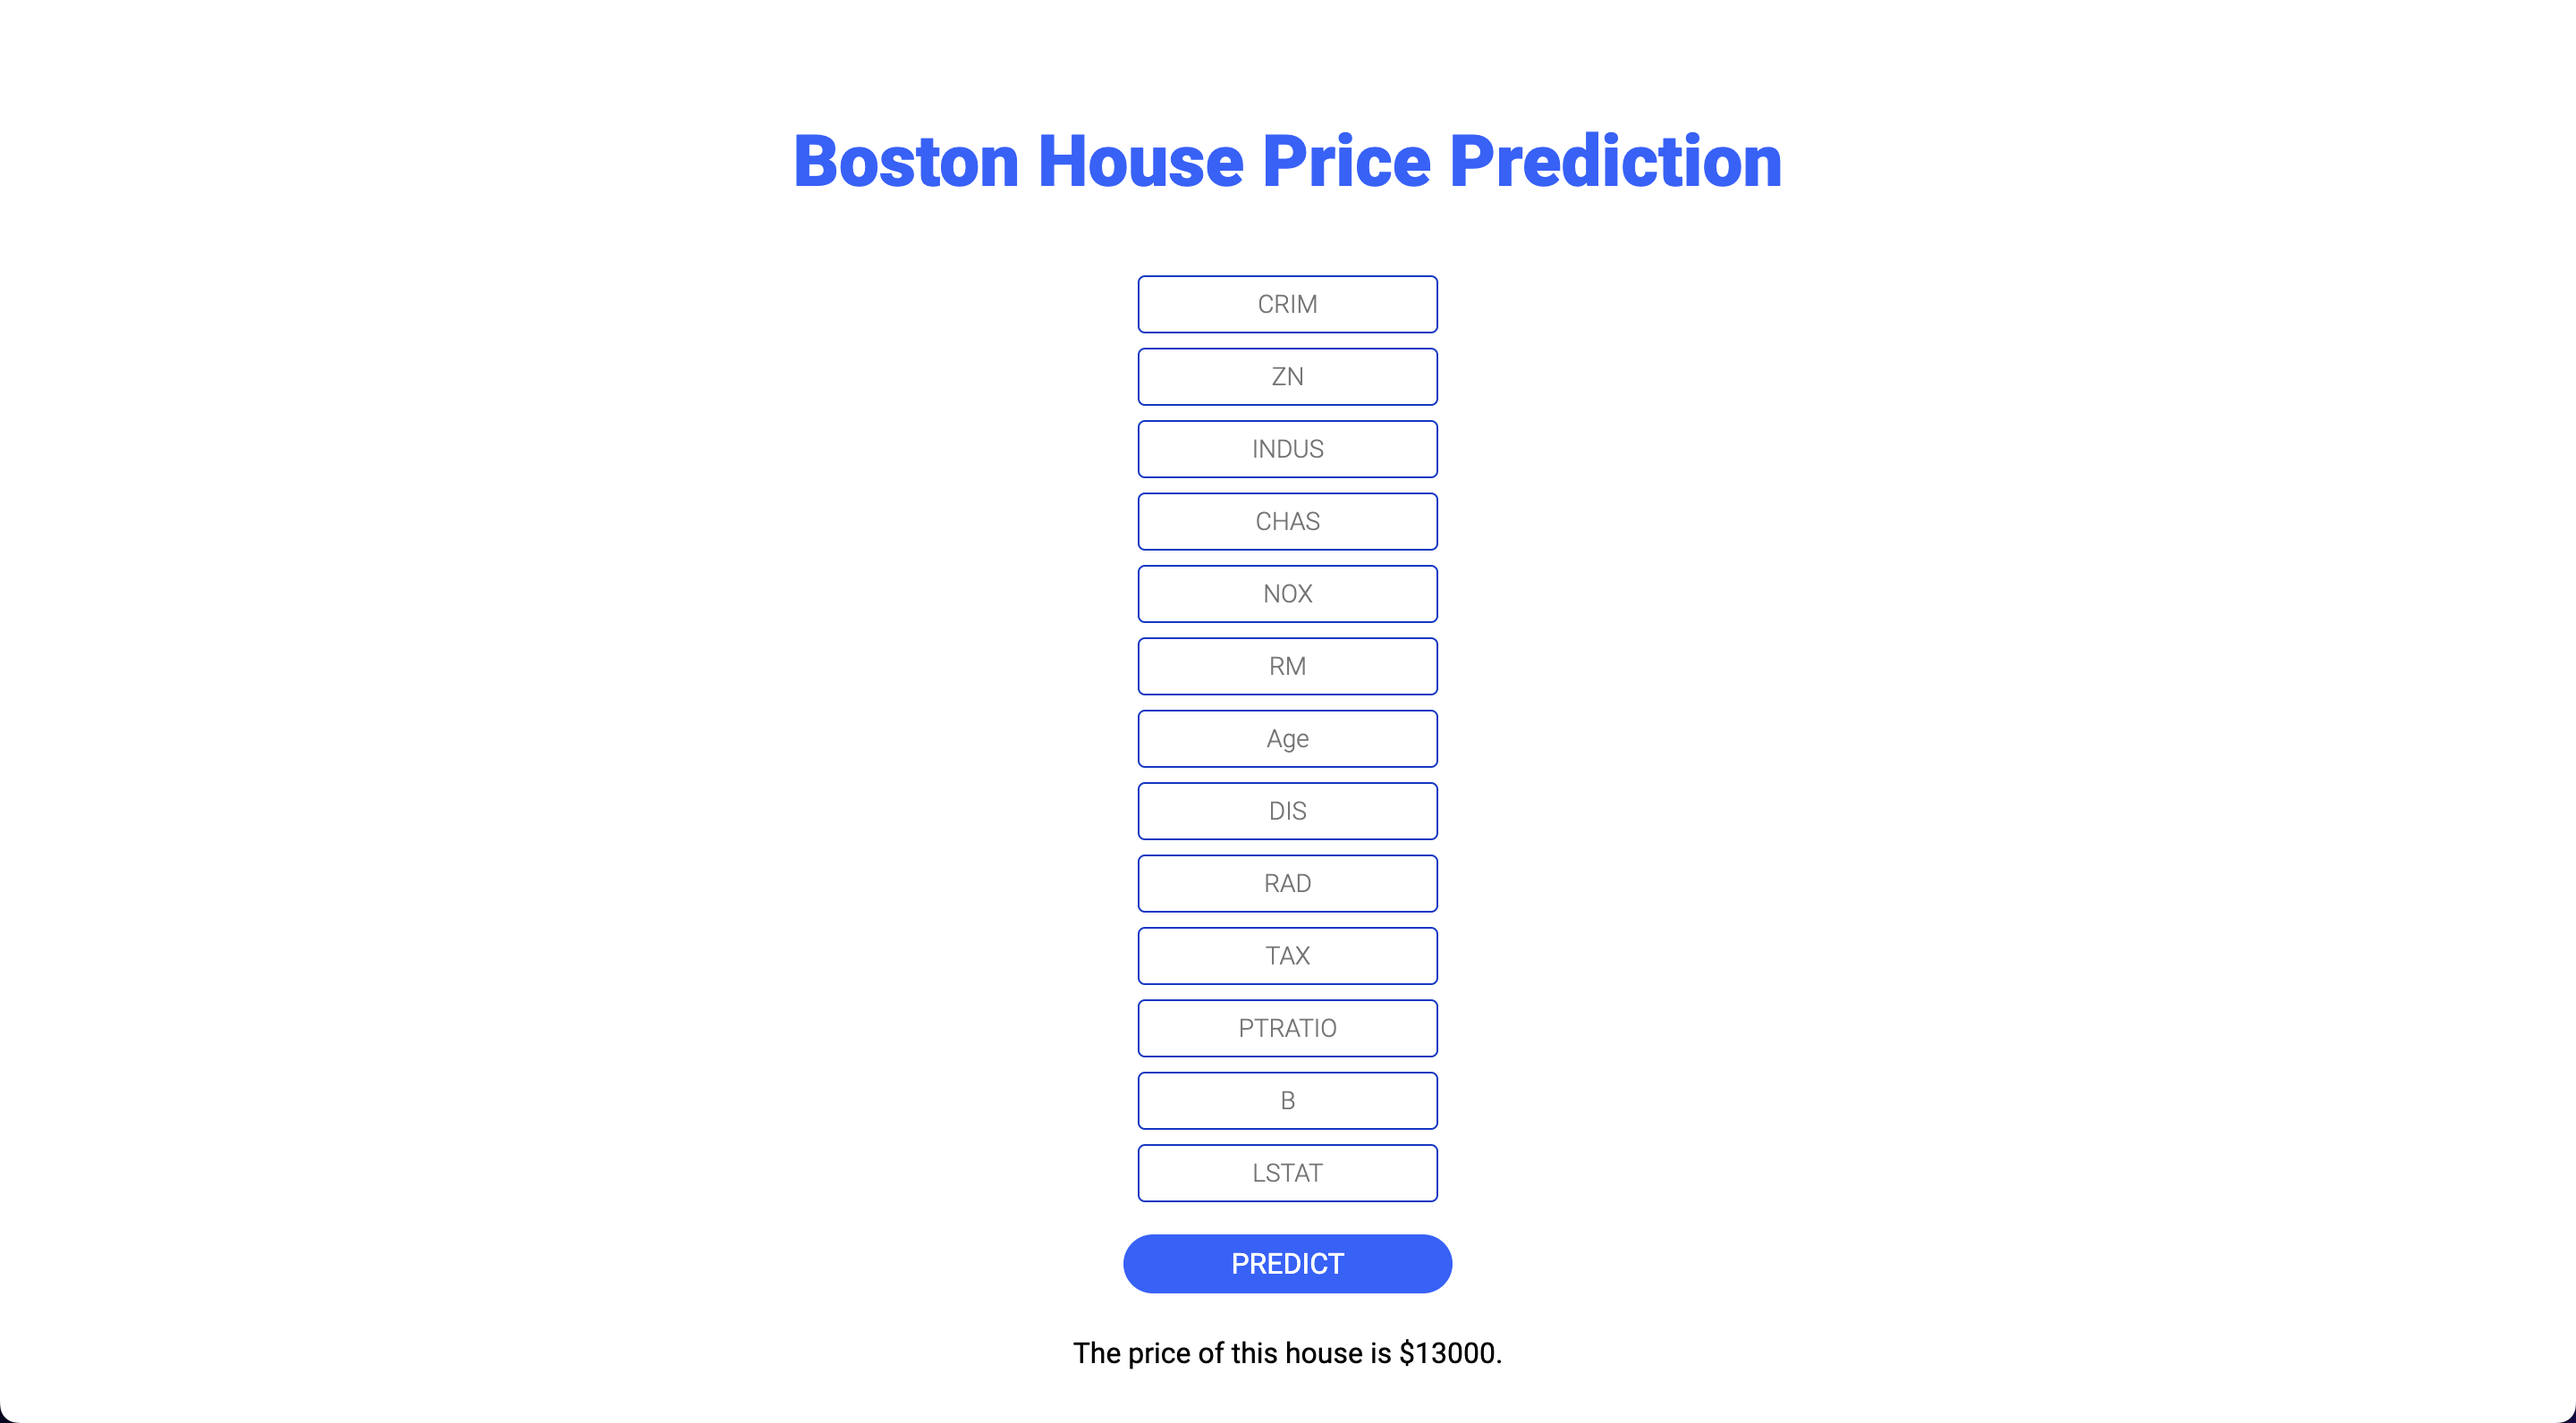
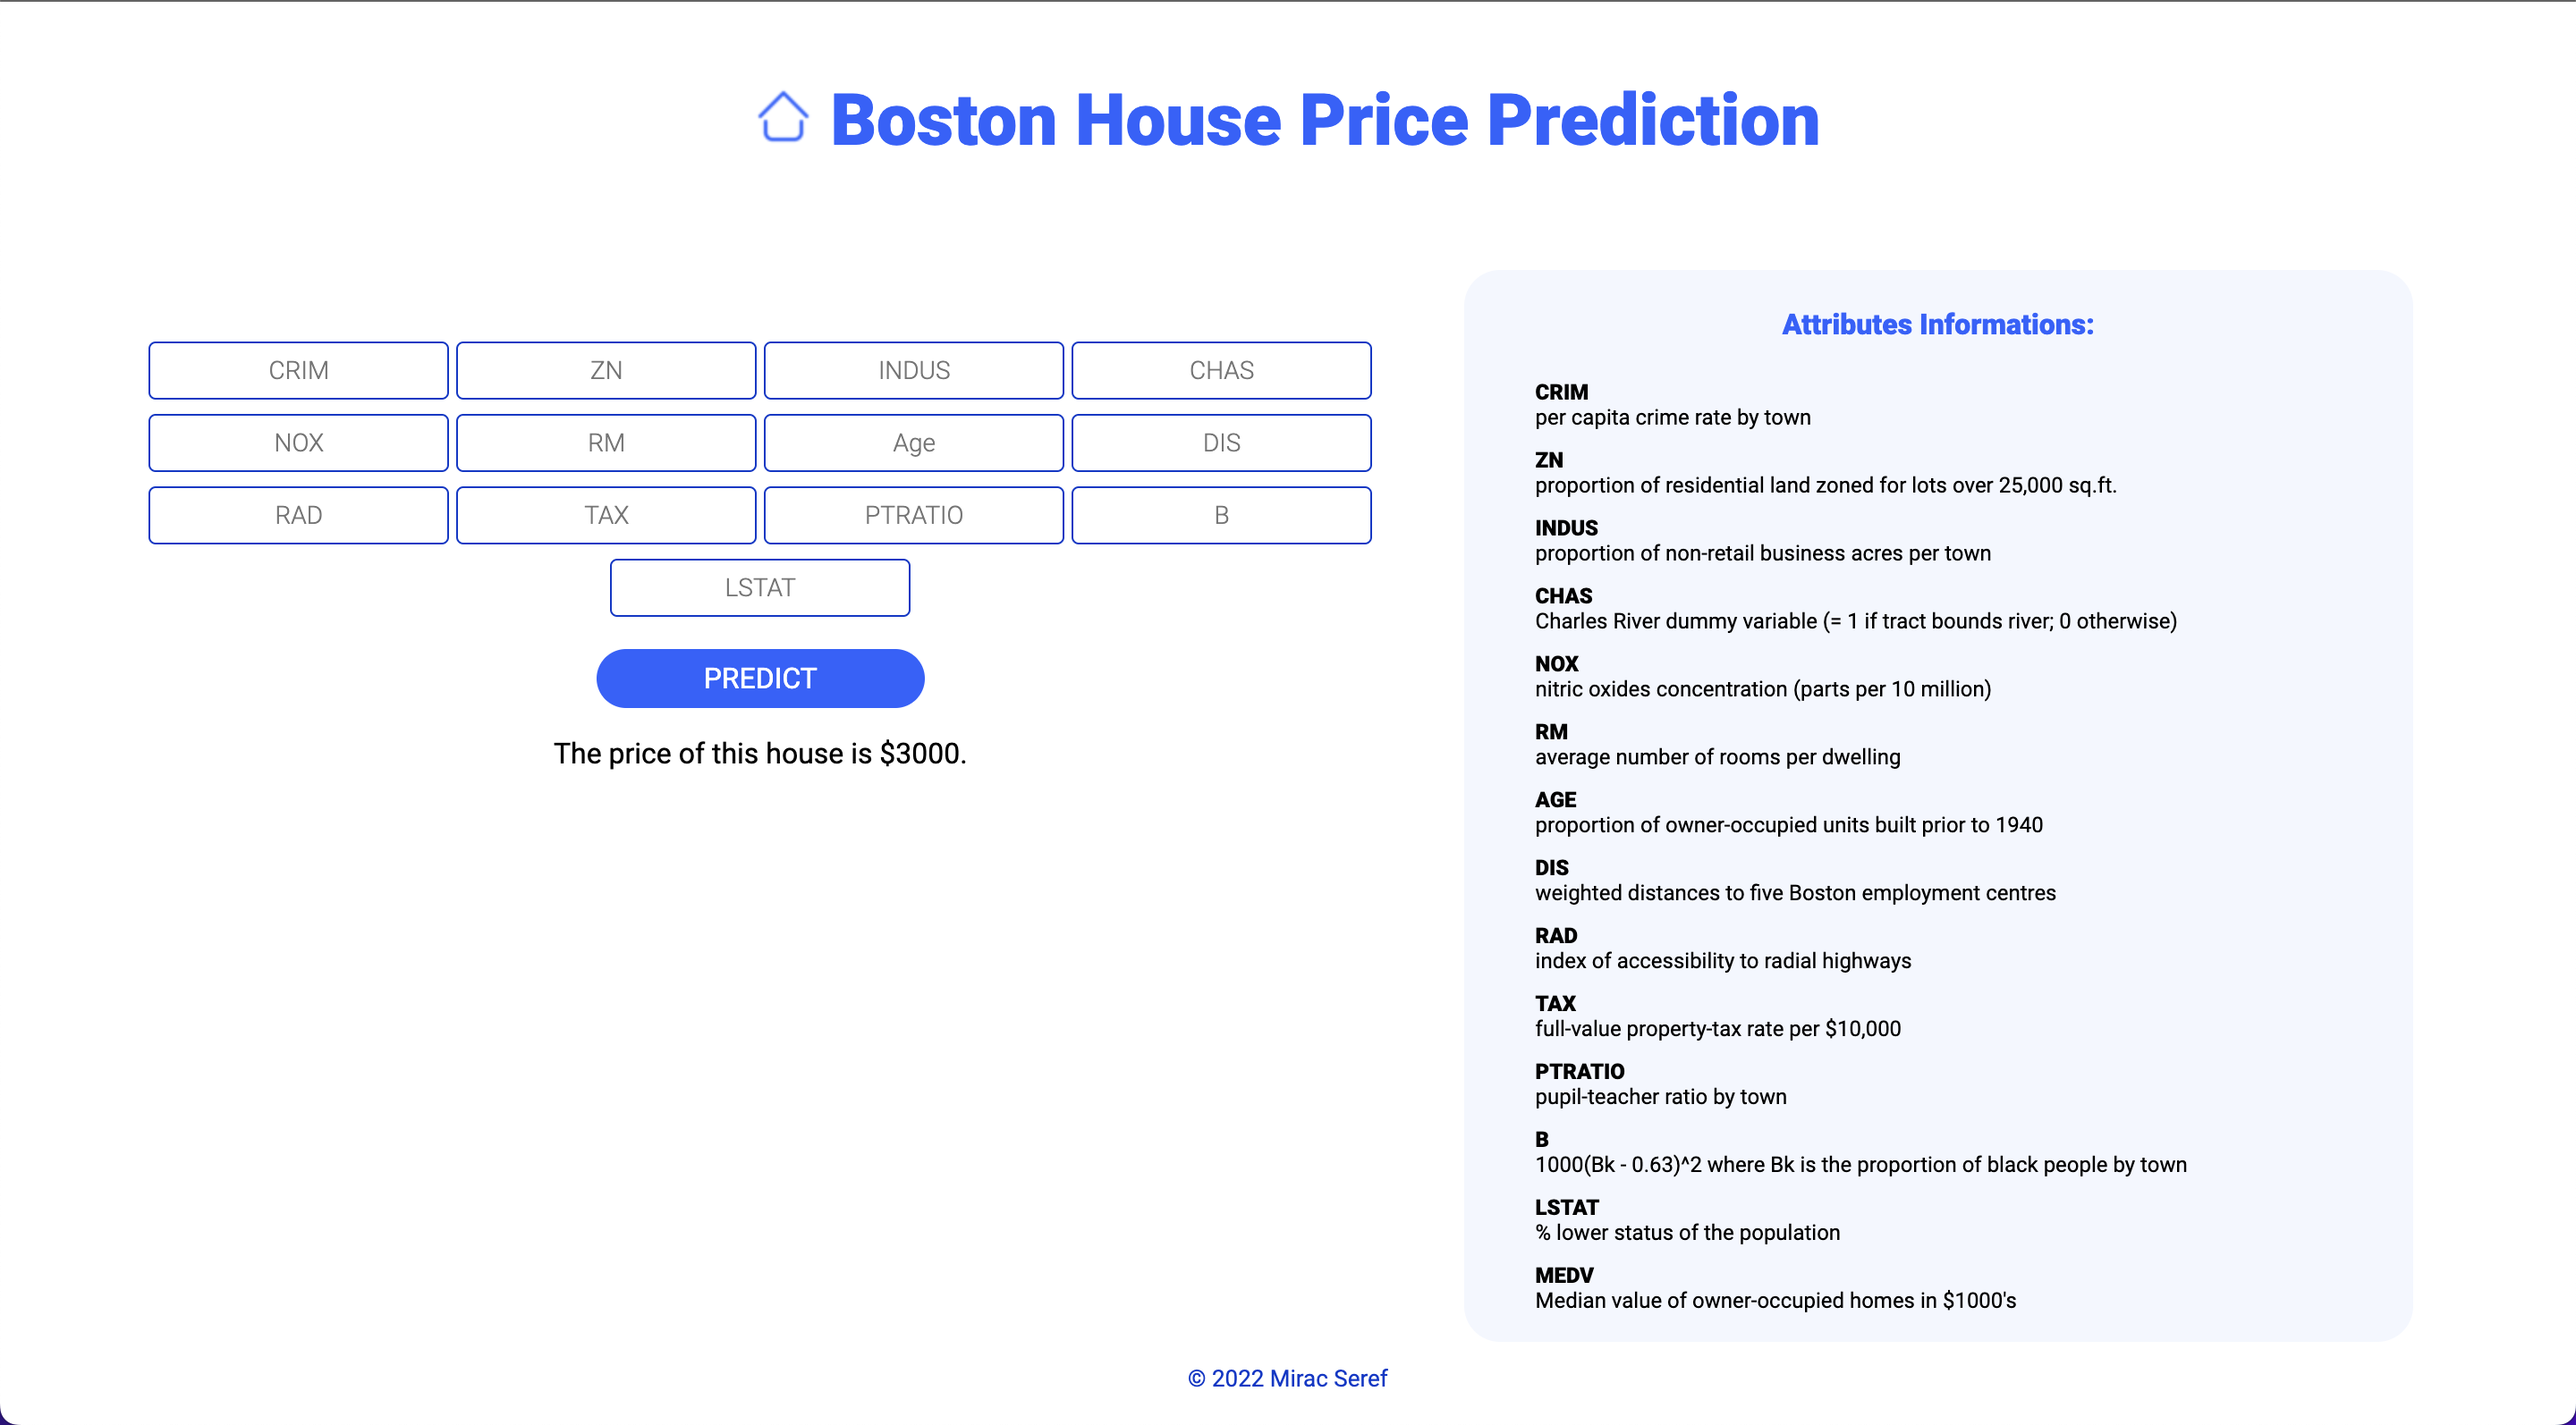
UI update

diff --git a/templates/home.html b/templates/home.html
@@ -4,36 +4,76 @@
     <meta charset="UTF-8">
     <meta http-equiv="X-UA-Compatible" content="IE=edge">
     <meta name="viewport" content="width=device-width, initial-scale=1.0">
+    
+    <!-- Favicon -->
+    <link rel="apple-touch-icon" sizes="180x180" href="/static/favicon//apple-touch-icon.png">
+    <link rel="icon" type="image/png" sizes="32x32" href="/static/favicon//favicon-32x32.png">
+    <link rel="icon" type="image/png" sizes="16x16" href="/static/favicon//favicon-16x16.png">
+    <link rel="manifest" href="/static/favicon//site.webmanifest">
+    <link rel="mask-icon" href="/static/favicon//safari-pinned-tab.svg" color="#5bbad5">
+    <meta name="msapplication-TileColor" content="#da532c">
+    <meta name="theme-color" content="#ffffff">
+
     <link rel="stylesheet" href="/static/styles/style.css">
-    <title>Boston House Price Prediction</title>
+
+    <!-- Fonts -->
     <link rel="preconnect" href="https://fonts.googleapis.com">
     <link rel="preconnect" href="https://fonts.gstatic.com" crossorigin>
     <link href="https://fonts.googleapis.com/css2?family=Roboto:ital,wght@0,300;0,900;1,400&display=swap" rel="stylesheet">
+    
+    <title>Boston HPP</title>
 </head>
 <body>
-    <div class="login">
-        <h1>Boston House Price Prediction</h1>
-
+    
+    <main>
+        <header>
+            <img src="/static/favicon/favicon-32x32.png" alt="BHHP logo icon">
+            <h1>Boston House Price Prediction</h1>
+        </header>
         <!-- Main input for receiving query to our model -->
         <form action="{{url_for('predict')}}" method="post">
-            <input type="text" name="CRIM" placeholder="CRIM" required><br>
-            <input type="text" name="ZN" placeholder="ZN" required/><br>
-            <input type="text" name="INDUS" placeholder="INDUS" required/><br>
-            <input type="text" name="CHAS" placeholder="CHAS" required/><br>
-            <input type="text" name="NOX" placeholder="NOX" required/><br>
-            <input type="text" name="RM" placeholder="RM" required/><br>
-            <input type="text" name="Age" placeholder="Age" required/><br>
-            <input type="text" name="DIS" placeholder="DIS" required/><br>
-            <input type="text" name="RAD" placeholder="RAD" required/><br>
-            <input type="text" name="TAX" placeholder="TAX" required/><br>
-            <input type="text" name="PTRATIO" placeholder="PTRATIO" required/><br>
-            <input type="text" name="B" placeholder="B" required/><br>
-            <input type="text" name="LSTAT" placeholder="LSTAT" required/><br>
-
+            <input type="text" name="CRIM" placeholder="CRIM" required>
+            <input type="text" name="ZN" placeholder="ZN" required>
+            <input type="text" name="INDUS" placeholder="INDUS" required>
+            <input type="text" name="CHAS" placeholder="CHAS" required>
+            <input type="text" name="NOX" placeholder="NOX" required>
+            <input type="text" name="RM" placeholder="RM" required>
+            <input type="text" name="Age" placeholder="Age" required>
+            <input type="text" name="DIS" placeholder="DIS" required>
+            <input type="text" name="RAD" placeholder="RAD" required>
+            <input type="text" name="TAX" placeholder="TAX" required>
+            <input type="text" name="PTRATIO" placeholder="PTRATIO" required>
+            <input type="text" name="B" placeholder="B" required>
+            <input type="text" name="LSTAT" placeholder="LSTAT" required>
+            <br>
             <button type="submit">Predict</button>
+            <p class="prediction-result">{{prediction_text}}</p>
         </form>
-        <p>{{prediction_text}}</p>
-    </div>
+
+        <div class="info">
+            <h4>Attributes Informations:</h4>
+            <ul style="list-style: none;">
+                <li><span>CRIM</span><br>per capita crime rate by town</li>
+                <li><span>ZN</span><br>proportion of residential land zoned for lots over 25,000 sq.ft.</li>
+                <li><span>INDUS</span><br>proportion of non-retail business acres per town</li>
+                <li><span>CHAS</span><br>Charles River dummy variable (= 1 if tract bounds river; 0 otherwise)</li>
+                <li><span>NOX</span><br>nitric oxides concentration (parts per 10 million)</li>
+                <li><span>RM</span><br>average number of rooms per dwelling</li>
+                <li><span>AGE</span><br>proportion of owner-occupied units built prior to 1940</li>
+                <li><span>DIS</span><br>weighted distances to five Boston employment centres</li>
+                <li><span>RAD</span><br>index of accessibility to radial highways</li>
+                <li><span>TAX</span><br>full-value property-tax rate per $10,000</li>
+                <li><span>PTRATIO</span><br>pupil-teacher ratio by town</li>
+                <li><span>B</span><br>1000(Bk - 0.63)^2 where Bk is the proportion of black people by town</li>
+                <li><span>LSTAT</span><br>% lower status of the population</li>
+                <li><span>MEDV</span><br>Median value of owner-occupied homes in $1000's</li>
+            </ul>
+        </div>
+        
+    </main>
+    <footer>
+        <p>&copy; <script>document.write(new Date().getFullYear())</script> Mirac Seref</p>
+    </footer>
 </body>
 
 </html>

diff --git a/static/styles/style.css b/static/styles/style.css
@@ -1,32 +1,48 @@
 :root{
     --primary: #2962ff;
-    --light: #768fff;
+    --light: #f3f7ff;
     --dark: #0039cb;
 }
 
 body{
+    font-family: 'Roboto', sans-serif;
+    width: 100%;
+    height: 90vh;
+    padding: 0;
+    margin: 0;
+}
+
+main{
+    margin: 0 2rem;
+    display: grid;
+    grid-template-columns: repeat(7, 1fr);
+    grid-template-rows: repeat(5, 1fr);
+}
+
+main header{
+    grid-area: 1 / 1 / 2 / 8;
     display: flex;
     justify-content: center;
-    font-family: 'Roboto', sans-serif;
+    align-items: baseline;
+    margin-top: 1rem;
 }
 
-.login{
-    margin-top: 2rem;
-}
-
-.login h1{
+main header h1{
+    margin-left: 10px;
     color: var(--primary);
     font-weight: 900;
     font-size: 2.5rem;
-    margin-bottom: 2.5rem;
-}
-
-.login form{
     text-align: center;
-    margin-bottom: 1.5rem;
 }
 
-.login form input{
+main form{
+    text-align: center;
+    margin-top: 2.5rem;
+    margin-bottom: 1.5rem;
+    grid-area: 2 / 1 / 6 / 5;
+}
+
+main form input{
     all: unset;
     padding: 7px 10px;
     margin-bottom: 8px;
@@ -36,7 +52,7 @@ body{
     font-size: 14px;
 }
 
-.login form button {
+main form button{
     all: unset;
     padding: 7px 60px;
     margin-top: 10px;
@@ -47,6 +63,34 @@ body{
     cursor: pointer;
 }
 
-.login p{
+main div.info{
+    grid-area: 2 / 5 / 6 / 8;
+    background-color: var(--light);
+    border-radius: 20px;
+    width: 90%;
+}
+
+main div.info h4{
+    color: var(--primary);
     text-align: center;
+}
+
+main div.info ul li{
+    margin-bottom: 10px;
+    font-size: 12px;
+}
+
+main div.info ul li span{
+    font-weight: bold;
+}
+
+p.prediction-result{
+    text-align: center;
+}
+
+footer p{
+    text-align: center;
+    font-size: small;
+    color: var(--dark);
+    margin-bottom: 10px;
 }

diff --git a/README.md b/README.md
@@ -1,5 +1,9 @@
 # Boston House Pricing Prediction
 
-### This project aims to predict the price of houses in Boston according to some features.
+This web application aims to predict the price of houses in Boston according to some features.
 
-### The repository contains everything from the notebook used to train the model to the entire web app with all python, html & css files.
+[Link of the web app](https://boston-houses-price-prediction.herokuapp.com)
+
+### Example
+
+![Usage example](https://raw.githubusercontent.com/miracseref/bostonhousepricing/main/static/images/example.png)
